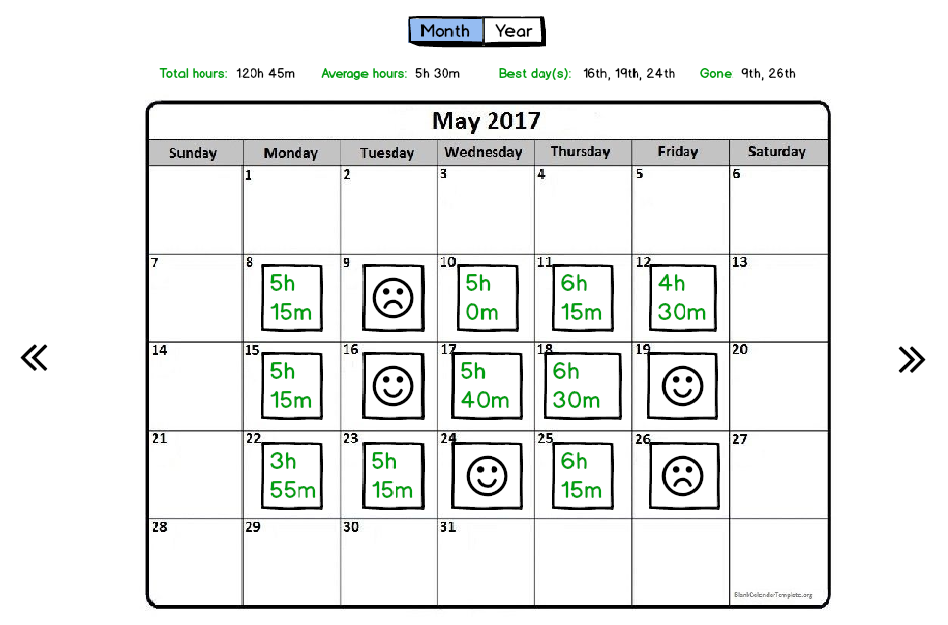
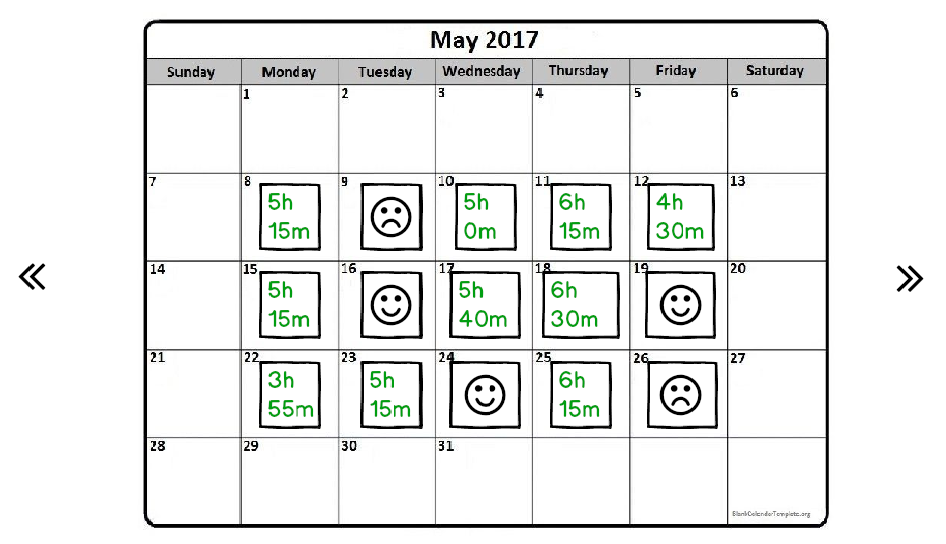
Updated Report page

Changed region(s): [[0.1533, 0.0, 0.889, 1.0], [0.0, 0.4688, 0.0613, 0.5938], [0.9503, 0.4688, 0.981, 0.5938]]

diff --git a/5051/Content/Site.css b/5051/Content/Site.css
@@ -90,14 +90,18 @@ textarea {
     margin-left: 10px;
 }
 
-.community-text-medium {
+.student-text-medium {
     margin-top: 5%;
     font-size: 3.5vh;
 }
 
-.community-text-small {
+.student-text-small {
     margin-top: 3%;
     font-size: 2.0vh;
+}
+
+span.report-color {
+    color: #009e11;
 }
 
 #wireframe-student {
